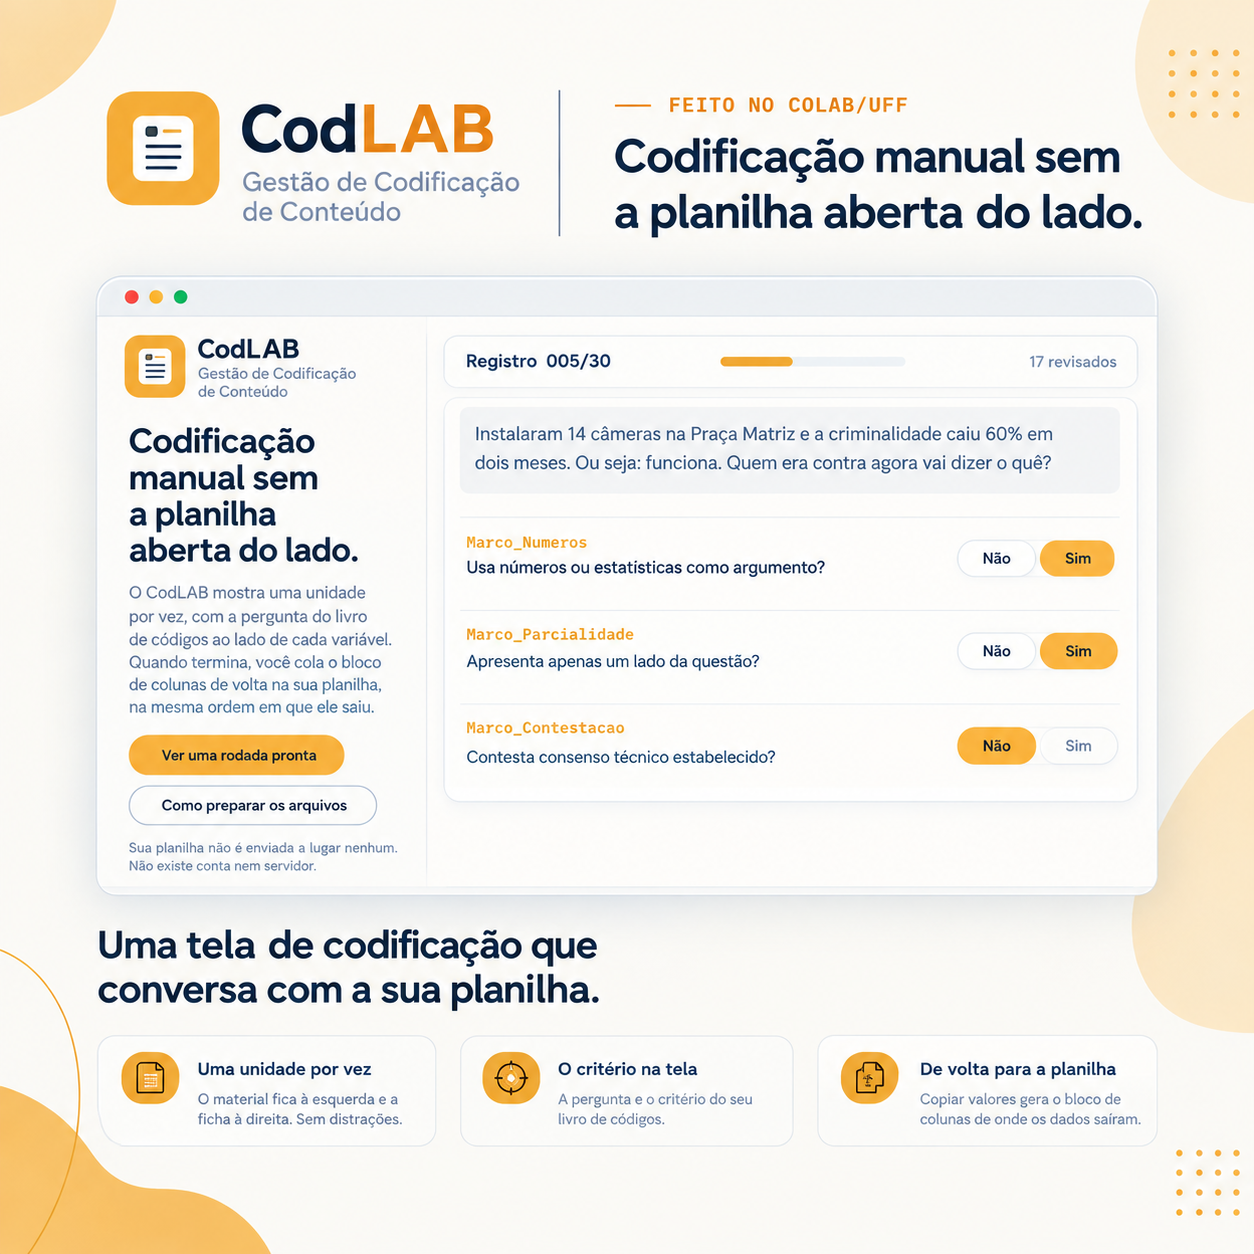
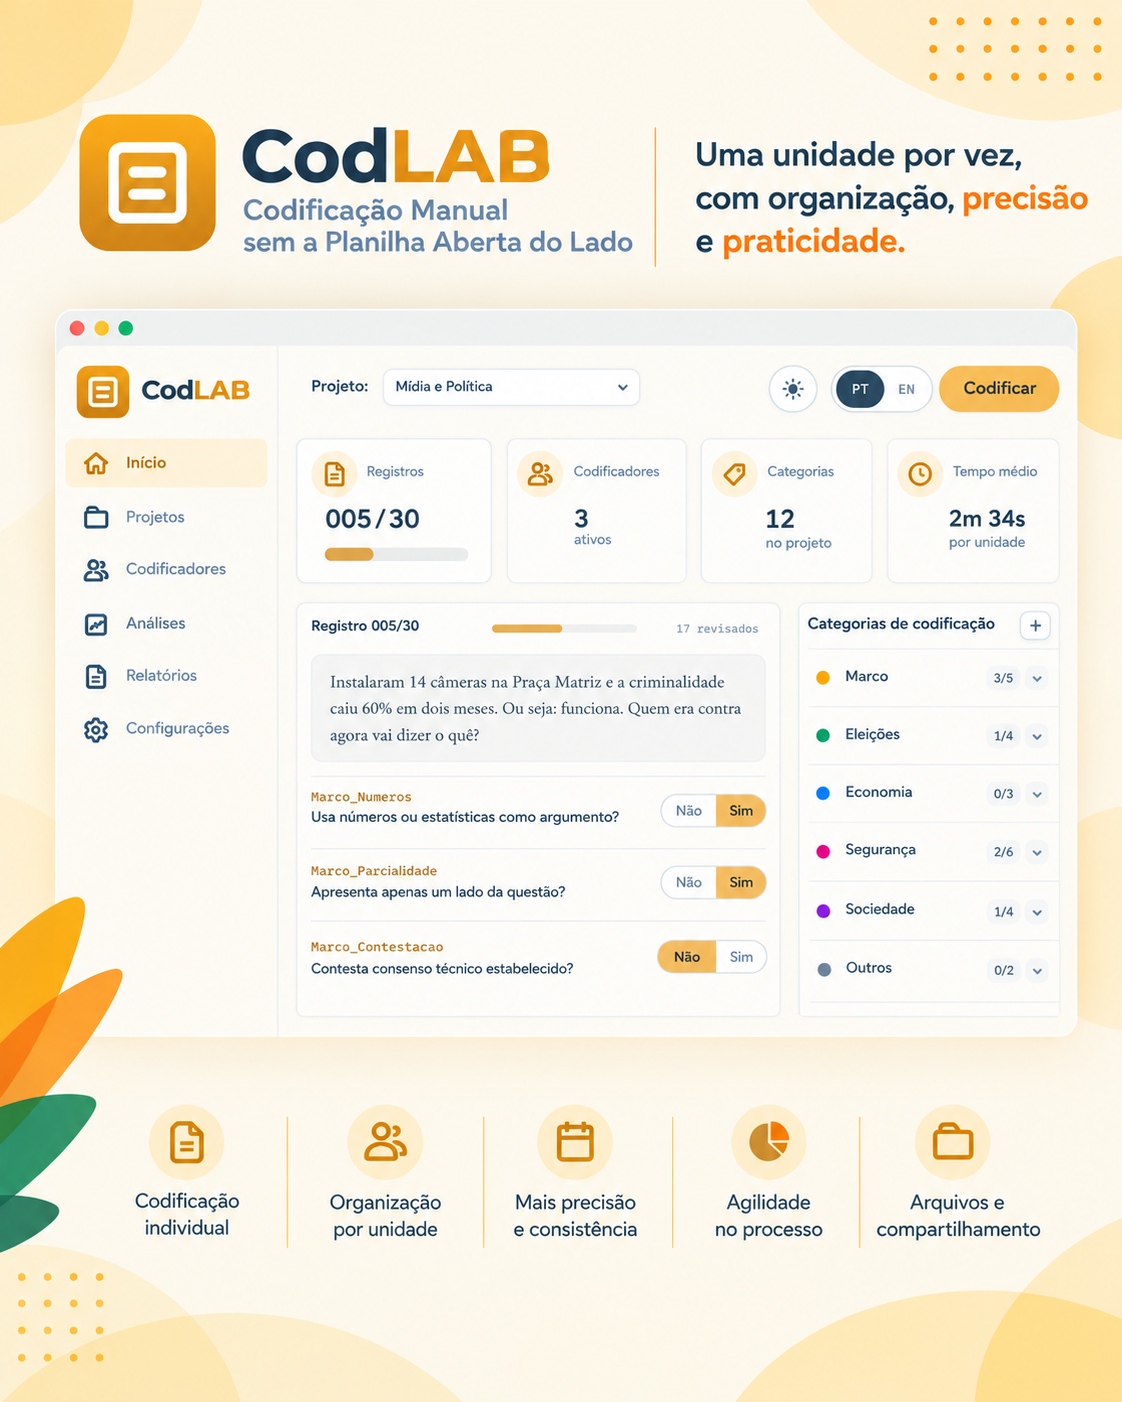
Atualiza imagens featured dos Apps coLAB e completa pqLAB/xoxoLAB
Substitui as imagens de KrippLAB, SucupiraLAB e CodLAB pelas novas
versões enviadas (mesmos nomes de arquivo, hero de /apps//lab/ atualiza
automaticamente). Adiciona imagem featured a pqLAB e xoxoLAB, que antes
não tinham nenhuma — os 5 apps agora exibem imagem no card da listagem.

diff --git a/_apps/xoxolab.md b/_apps/xoxolab.md
@@ -9,6 +9,7 @@ year: 2026
 demo_url: "https://xoxolab.ombudsmanviktor.me/"
 install_url: "https://github.com/ombudsmanviktor/xoxolab"
 doi: "10.0000/PENDENTE"
+image: "/assets/img/apps/xoxolab-featured.png"
 ---
 
 ### Créditos

diff --git a/_apps/pqlab.md b/_apps/pqlab.md
@@ -9,6 +9,7 @@ year: 2026
 demo_url: "https://pqlab.ombudsmanviktor.me/"
 install_url: "https://github.com/ombudsmanviktor/pqlab"
 doi: "10.0000/PENDENTE"
+image: "/assets/img/apps/pqlab-featured.png"
 ---
 
 ### Créditos
